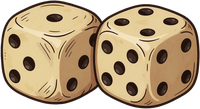
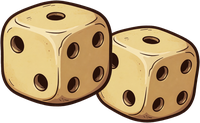
Los dados de hueso, ahora si: 1-2-4 en los dos
El dibujo anterior repetia cara (1-3-3 el izquierdo y dos caras de 4 en el
derecho), imposible en un dado real. A tamano de icono un 4 y un 5 no se
distinguen, asi que esta vez se conto POR CODIGO: pips por componente conexa
y reparto por cara segun el ANGULO desde el centro del dado (por bandas
horizontales, los pips altos de la cara frontal caian en la de arriba y daban
cuentas falsas).

De ocho pares generados no salio ni uno correcto — el generador acierta un
dado y falla el otro —, asi que se pidio UN SOLO dado, que si salio bien
(1 arriba, 2 en diagonal, 4 en las esquinas), y el par se compone con dos
copias suyas, una girada 8 grados: dos dados iguales son una tirada de dobles.

diff --git a/CLAUDE.md b/CLAUDE.md
@@ -1874,6 +1874,19 @@ primera vez que se entra en ellos (`logros_intro_done` /
     (`ESMERALDA_PEZ` = "froggy", la rana caótica): es la única pieza que se
     gana pescando un pez CONCRETO, y mira el ÁLBUM y no una estadística, así
     que cae también si esa rana se pescó antes de que la pieza existiera.
+  · **LOS DADOS SE VALIDAN CONTANDO POR CÓDIGO, NO A OJO** (lección del
+    19-8-2026): a Ludo se le pidieron las caras y devolvió dados con el 5
+    repetido en dos caras del mismo dado, algo imposible. A tamaño de icono
+    un 4 y un 5 no se distinguen, así que se comprobó detectando los pips
+    por componente conexa y repartiéndolos por cara SEGÚN EL ÁNGULO desde
+    el centro del dado (repartir por bandas horizontales metía los pips
+    altos de la cara frontal en la de arriba y daba cuentas falsas). De ocho
+    pares generados no salió ni uno correcto: el generador acierta un dado y
+    falla el otro. La solución fue pedir UN SOLO dado —ahí sí acertó, 1-2-4—
+    y **componer el par con dos copias suyas**, una girada 8°; dos dados
+    iguales son una tirada de dobles, que existe. Si hay que rehacerlo:
+    describir el PATRÓN de cada cara ("un punto centrado", "dos en
+    diagonal", "cuatro en las esquinas") funciona mejor que el número.
   · **UN ICONO CON AGUJERO NECESITA LA SEGUNDA PASADA** (`CON_HUECO` en
     ui2_prep, hoy solo el cucharón sin fondo del umibōzu): `drop_white`
     inunda desde los BORDES, así que el blanco encerrado por el propio
